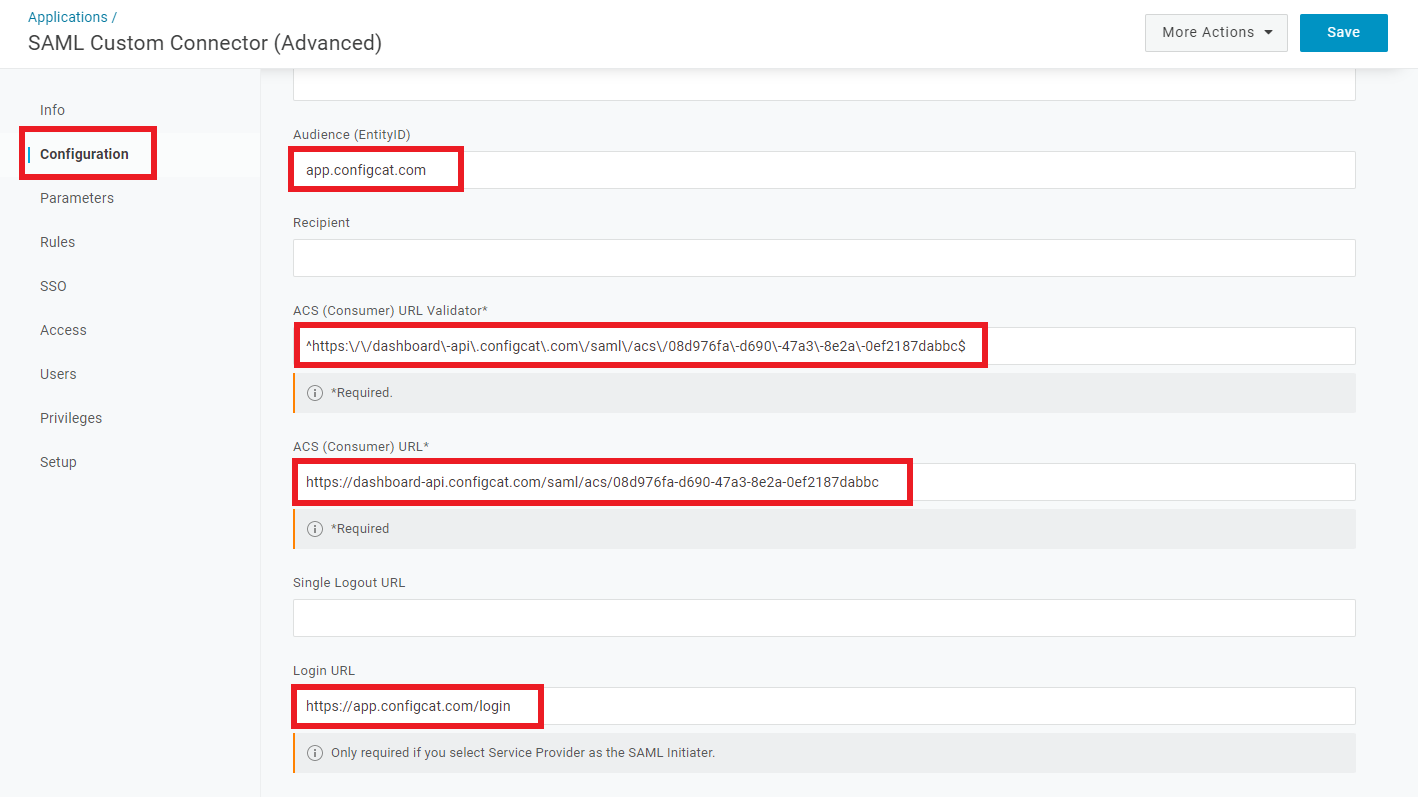
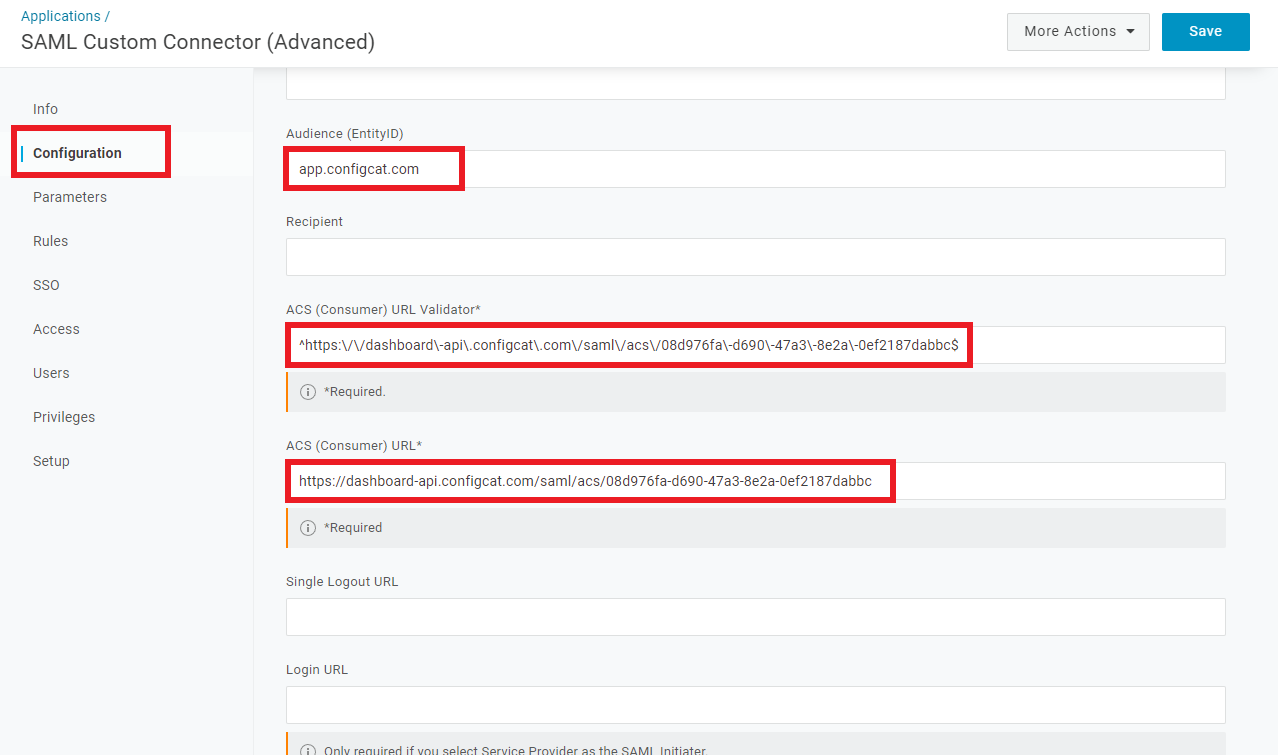
Fix onelogin docs, new screenshots

diff --git a/website/docs/advanced/team-management/saml/identity-providers/onelogin.md b/website/docs/advanced/team-management/saml/identity-providers/onelogin.md
@@ -44,14 +44,13 @@ The next step will guide you on how to collect the information required for the 
     - Copy `Entity ID` and paste it into the `Audience (EntityID)` field.
     - Copy `Assertion Consumer Service` and paste it into the `ACS (Consumer) URL` field.
     - Paste the same `Assertion Consumer Service` into the `ACS (Consumer) URL Validator` field in regex format e.g. `^https:\/\/dashboard\-api\.configcat\.com\/saml\/acs\/08d97769\-fed5\-4fd4\-8a09\-0a38bb951177$`
-    - For `Login URL` type `https://app.configcat.com/login`.
 
     <img class="saml-tutorial-img" src="/docs/assets/saml/dashboard/saml_config.png" />
 
     <img class="saml-tutorial-img" src="/docs/assets/saml/onelogin/saml_config.png" />
 
 - Scroll down a bit on this page and configure the following:
-    - Select `Service Provider` as `SAML Initiator`.
+    - Select `OneLogin` as `SAML Initiator`.
     - Select `Email` as `SAML nameID format`.
     - Select `Both` as `SAML signature element`.
 
